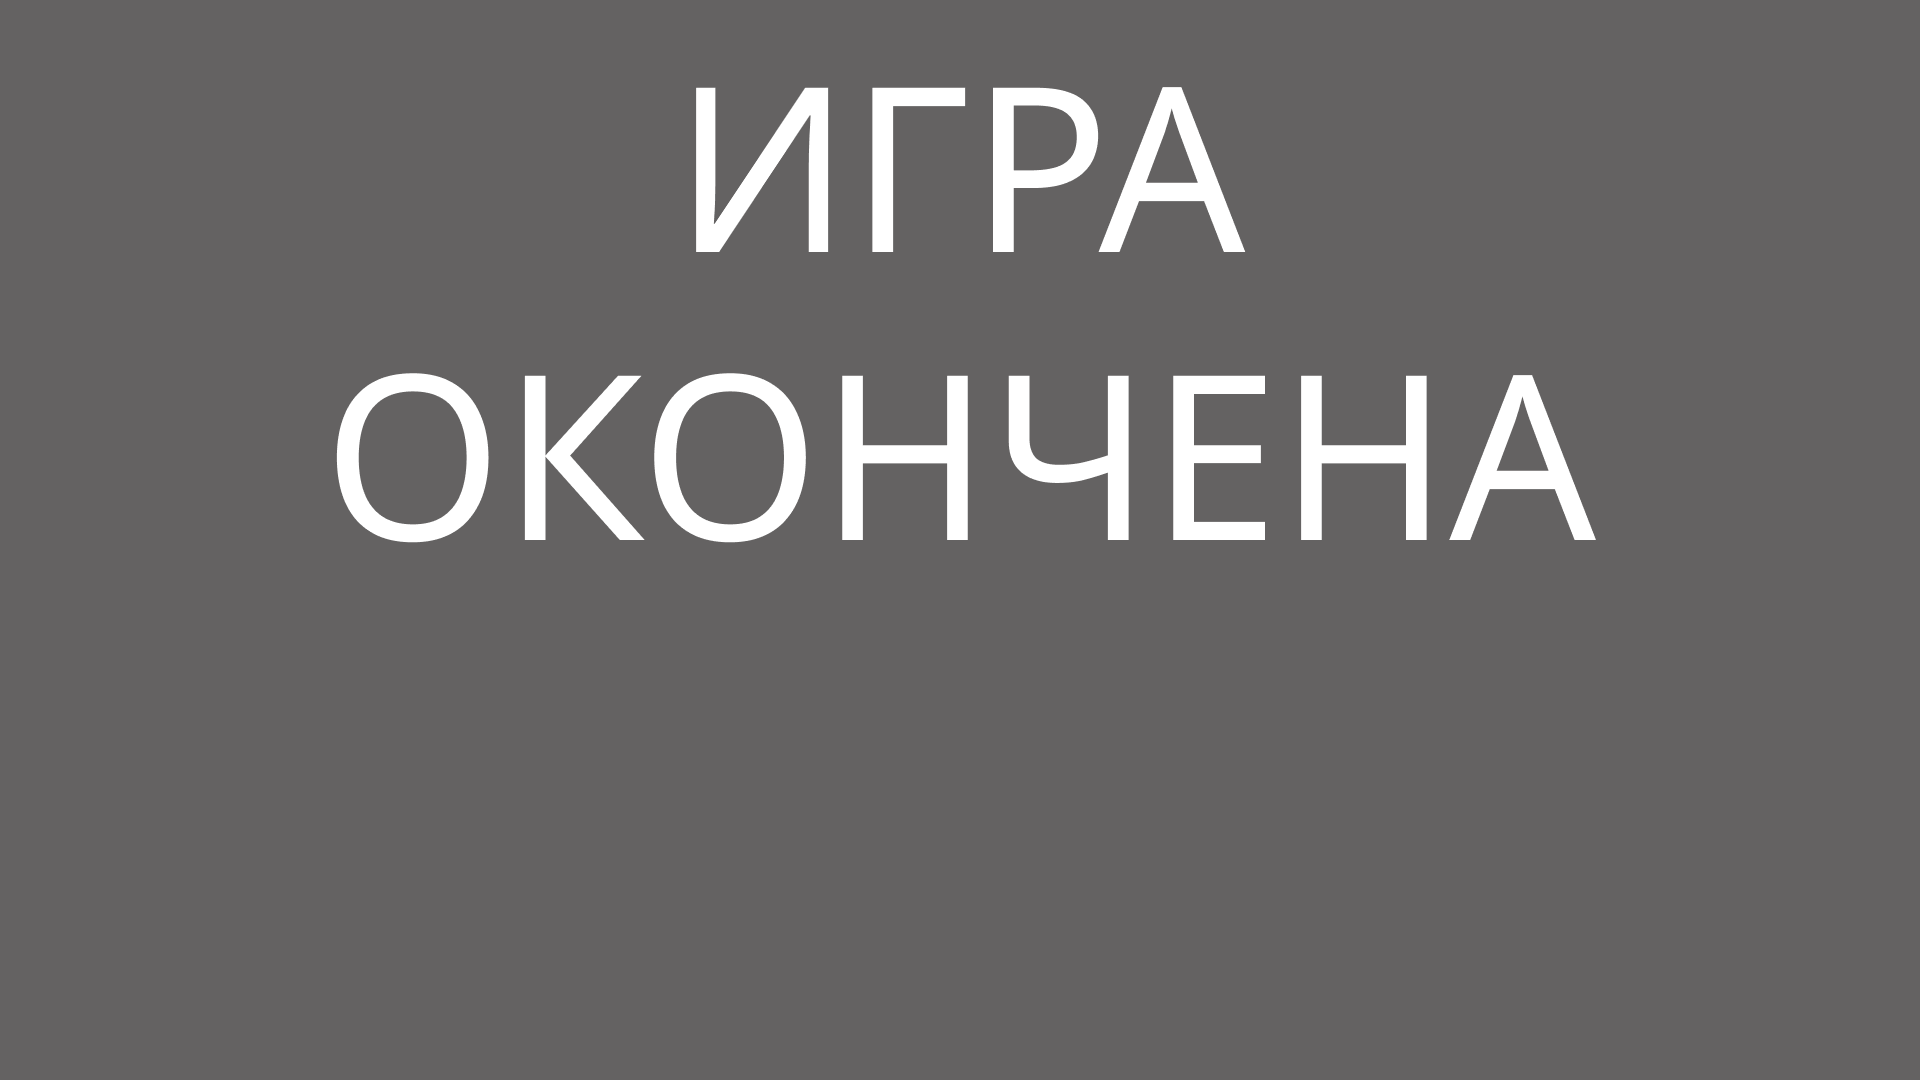
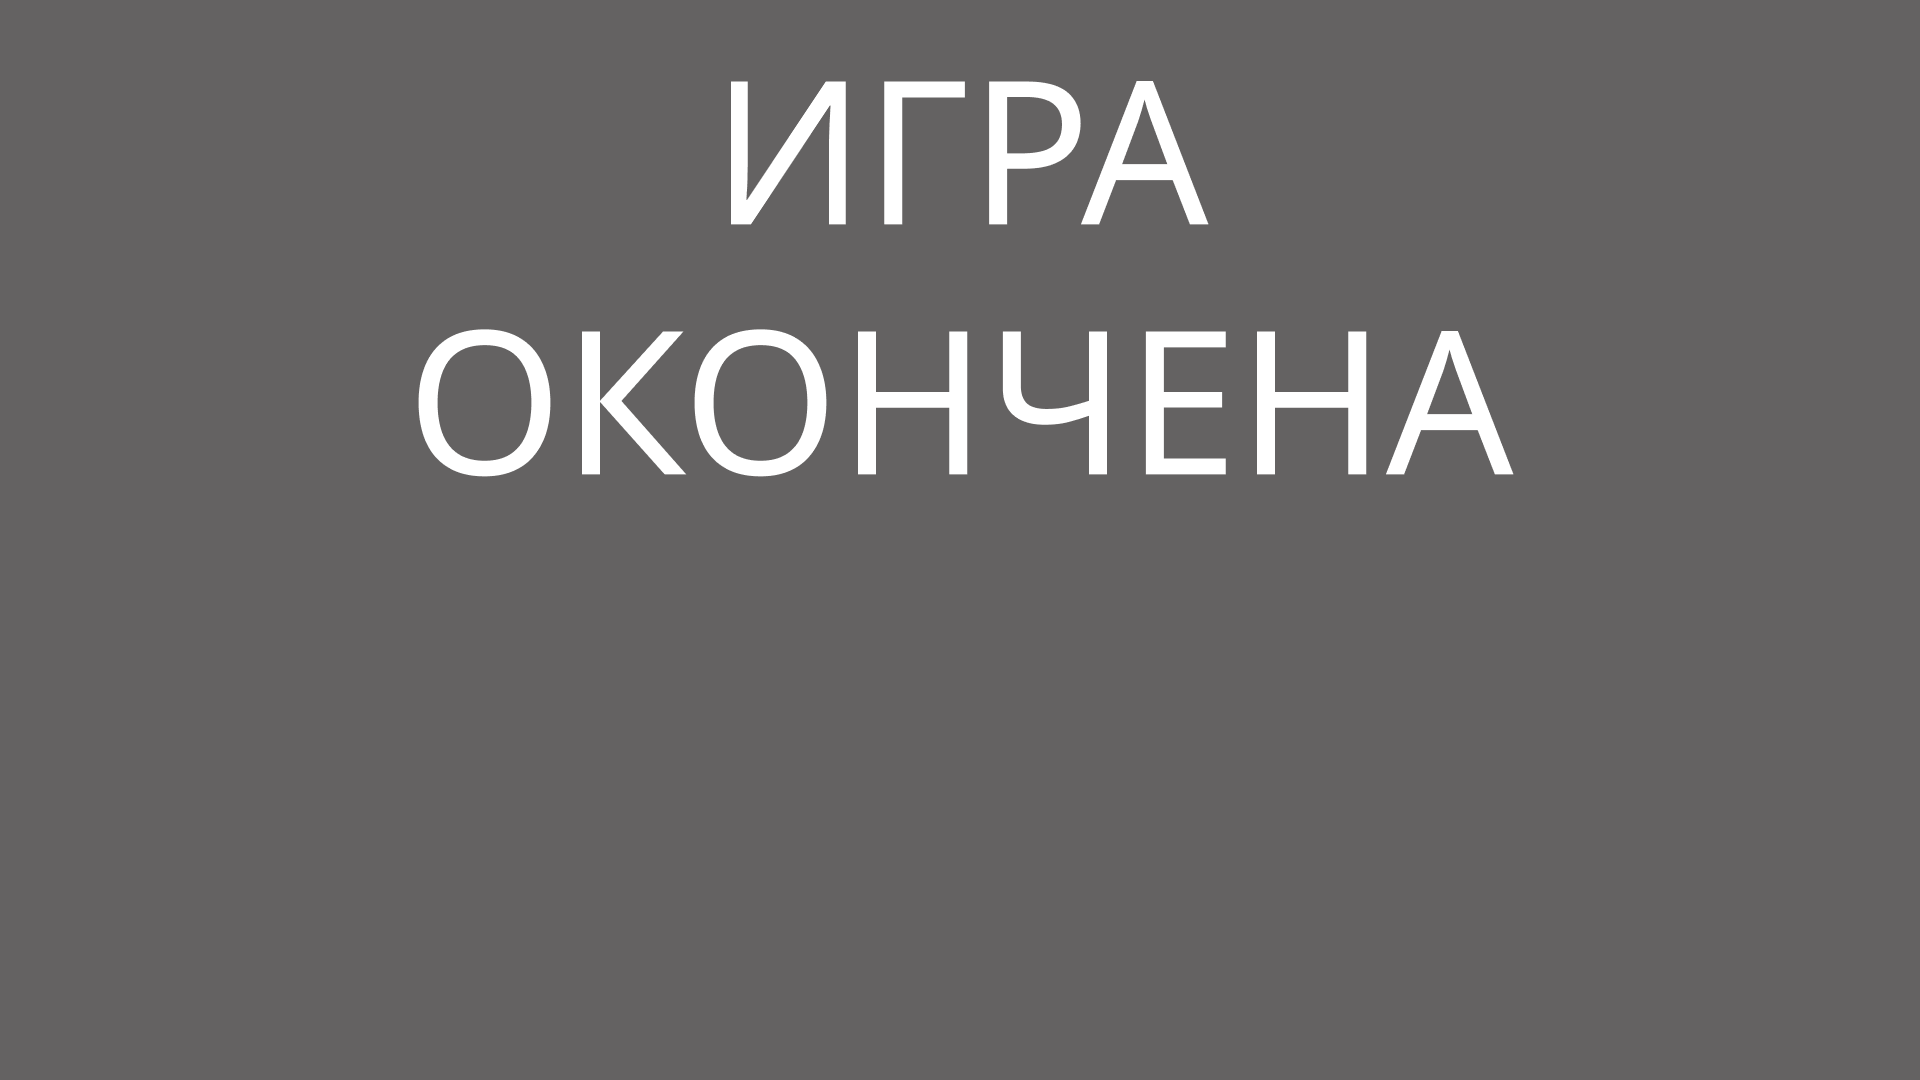
улучшил код

Changed region(s): [[0.1562, 0.3056, 0.8438, 0.5194], [0.3438, 0.0611, 0.6562, 0.2444]]

diff --git a/scripts/script.js b/scripts/script.js
@@ -1,52 +1,6 @@
 let canvas = document.getElementById('canvas');
 let canvasContext = canvas.getContext('2d');
 
-//подгрузка фото
-
-let font = new FontFace('ProtoSans56', 'url(font/font.ttf)');
-
-font.load().then(function(font) {
-    console.log('font ready');
-    document.fonts.add(font);
-});
-
-let background = new Image();
-background.src = "./images/background.png";
-
-background.onload = function () {
-    canvas.width = game.width;
-    canvas.height = game.height;
-    canvasContext.drawImage(background, 0, 0);
-}
-
-let enemyTank1 = new Image();
-enemyTank1.src = "./images/enemyTank1.png";
-enemyTank1.onload = function () {
-    canvasContext.drawImage(enemyTank1, rightEnemyTank.x, rightEnemyTank.y);
-}
-
-let enemyTank2 = new Image();
-enemyTank2.src = "./images/enemyTank2.png";
-enemyTank2.onload = function () {
-    canvasContext.drawImage(enemyTank2, leftEnemyTank.x, leftEnemyTank.y);
-}
-
-let tank = new Image();
-tank.src = "./images/tank.png";
-tank.onload = function () {
-    canvasContext.drawImage(tank, frieldlyTank.x, frieldlyTank.y);
-}
-
-let endGameScreen = new Image()
-endGameScreen.src = "./images/endGameScr.png"
-
-let projectileModel = new Image()
-projectileModel.src = "./images/pula.png"
-
-let restButt = new Image()
-restButt.src = "./images/restartButton.png"
-//
-
 //объекты и массивы
 // так было раньше
 
@@ -61,9 +15,14 @@ let content = [ // так лучше
     }
 ]
 
+let contentSize = {
+    width: 200,
+    height: 30,
+}
+
 let textFont = "#FFFFFF"
 
-let countRepeatsOfGame = 0;
+let countRepeatsOfGame = 14;
 
 let score = 0
 
@@ -80,7 +39,7 @@ let currIndex = 0
 
 const textSizeAndFont = "bold 24px ProtoSans56"
 
-const textSizeAndFontForEnGameScreen = "bold 72px ProtoSans56"
+const textSizeAndFontForEnGameScreen = "72px ProtoSans56"
 
 const textSizeAndFontForScore = "bold 32px ProtoSans56"
 
@@ -92,7 +51,7 @@ let ground = {
     height: 1080,
     x: 0,
     y: 0,
-    model: background,
+    model: null,
 }
 
 
@@ -101,7 +60,7 @@ let endGameScr = {
     height: 1080,
     x: 0,
     y: 0,
-    model: endGameScreen,
+    model: null,
 }
 
 let tanks = [
@@ -112,8 +71,9 @@ let tanks = [
         starty: 205,
         x: 270,
         y: 205,
-        speed: 4.235,//13.55
-        model: enemyTank1,
+        buffer: 15,
+        speed: 3.235,//13.55
+        model: null,
         isDead: false,
         isRightTank: false,
     },
@@ -124,15 +84,16 @@ let tanks = [
         starty: 370,
         x: 1400,
         y: 370,
-        speed: -4,//13
-        model: enemyTank2,
+        buffer: 15,
+        speed: -3,//13
+        model: null,
         isDead: false,
         isRightTank: false,
     }
 ]
 
 let frieldlyTank = {
-    model: tank,
+    model: null,
     width: 134, 
     height: 158,
     x: 868,
@@ -176,7 +137,7 @@ let projectile = {
     y: 760,
     startx: 906,
     starty: 740,
-    model: projectileModel,
+    model: null,
     dx: 0,
     dy: 0,
     disX: 0,
@@ -189,10 +150,82 @@ let restartButton = {
     width: 397,
     x: 750,
     y: 790,
-    model: restButt,
+    model: null,
+}
+
+let gameScore = {
+    maxScoreX: 915,
+    maxScoreY: 130,
+    scoreX: 870,
+    scoreY: 130,
+    scoreWordX: 860,
+    scoreWordY: 50,
+}
+
+let endGameScore = {
+    maxScoreX: 915,
+    maxScoreY: 700,
+    scoreX: 800,
+    scoreY: 700,
+    scoreWordX: 800,
+    scoreWordY: 610,
 }
 
 //
+
+//подгрузка фото
+
+let font = new FontFace('ProtoSans56', 'url(font/font.ttf)');
+
+font.load().then(function(font) {
+    console.log('font ready');
+    document.fonts.add(font);
+});
+
+let background = new Image();
+background.src = "./images/background.png";
+ground.model = background
+
+background.onload = function () {
+    canvas.width = game.width;
+    canvas.height = game.height;
+    canvasContext.drawImage(background, 0, 0);
+}
+
+let enemyTank1 = new Image();
+enemyTank1.src = "./images/enemyTank1.png";
+tanks[0].model = enemyTank1
+enemyTank1.onload = function () {
+    canvasContext.drawImage(enemyTank1, tanks[0].x, tanks[0].y);
+}
+
+let enemyTank2 = new Image();
+enemyTank2.src = "./images/enemyTank2.png";
+tanks[1].model = enemyTank2
+enemyTank2.onload = function () {
+    canvasContext.drawImage(enemyTank2, tanks[1].x, tanks[1].y);
+}
+
+let tank = new Image();
+tank.src = "./images/tank.png";
+frieldlyTank.model = tank
+tank.onload = function () {
+    canvasContext.drawImage(tank, frieldlyTank.x, frieldlyTank.y);
+}
+
+let endGameScreen = new Image()
+endGameScreen.src = "./images/endGameScr.png"
+endGameScr.model = endGameScreen
+
+let projectileModel = new Image()
+projectileModel.src = "./images/pula.png"
+projectile.model = projectileModel
+
+let restButt = new Image()
+restButt.src = "./images/restartButton.png"
+restartButton.model = restButt
+//
+
 
 //функции
 
@@ -215,6 +248,7 @@ function niceShot(obj) {
     let shotTop = projectile.y > obj.y;
     let shotDown = projectile.y < obj.y + obj.height; 
     if (shotLeft && shotRight && shotTop && shotDown){
+        
         obj.isDead = true
     }
 }
@@ -297,8 +331,8 @@ function drawContent() {
     canvasContext.fillStyle = textFont;
     canvasContext.font = textSizeAndFont;
     canvasContext.align = "center"
-    canvasContext.fillText(content[currIndex].rightWord, tanks[rightIndex].x -15, tanks[rightIndex].y -15, 200, 30);
-    canvasContext.fillText(content[currIndex].wrongWord, tanks[wrongIndex].x -20, tanks[wrongIndex].y -15, 200, 30);
+    canvasContext.fillText(content[currIndex].rightWord, tanks[rightIndex].x - tanks[rightIndex].buffer, tanks[rightIndex].y - tanks[rightIndex].buffer, contentSize.width, contentSize.height);
+    canvasContext.fillText(content[currIndex].wrongWord, tanks[wrongIndex].x - tanks[rightIndex].buffer, tanks[wrongIndex].y - tanks[rightIndex].buffer, contentSize.width, contentSize.height);
 }
 
 function drawFrame() {
@@ -323,22 +357,22 @@ function isTankIsAbordBorder() {
 }
 
 
-function drawendGame() {
+function drawEndGame() {
     draw(endGameScr)
     draw(restartButton)
     canvasContext.fillStyle = textFont;
     canvasContext.font = textSizeAndFontForEnGameScreen ;
-    canvasContext.fillText("Score: ", 800, 620);
-    canvasContext.fillText(score, 800, 700);
-    canvasContext.fillText("/  15", 915, 700);
+    canvasContext.fillText("Score: ", endGameScore.scoreWordX, endGameScore.scoreWordY);
+    canvasContext.fillText(score, endGameScore.scoreX, endGameScore.scoreY);
+    canvasContext.fillText("/  15", endGameScore.maxScoreX, endGameScore.maxScoreY);
 }
 
 function drawScore() {
     canvasContext.fillStyle = textFont;
     canvasContext.font = textSizeAndFontForScore;
-    canvasContext.fillText("Score: ", 860, 50);
-    canvasContext.fillText(score, 870, 130);
-    canvasContext.fillText("/ 15", 915, 130);
+    canvasContext.fillText("Score: ", gameScore.scoreWordX, gameScore.scoreWordY);
+    canvasContext.fillText(score, gameScore.scoreX, gameScore.scoreY);
+    canvasContext.fillText("/ 15", gameScore.maxScoreX, gameScore.maxScoreY);
 }
 
 
@@ -349,7 +383,7 @@ function play() {
         requestAnimationFrame(play)
     }
     if (countRepeatsOfGame === 15) {
-        drawendGame()
+        drawEndGame()
         game.isGame = false
     }
 }
